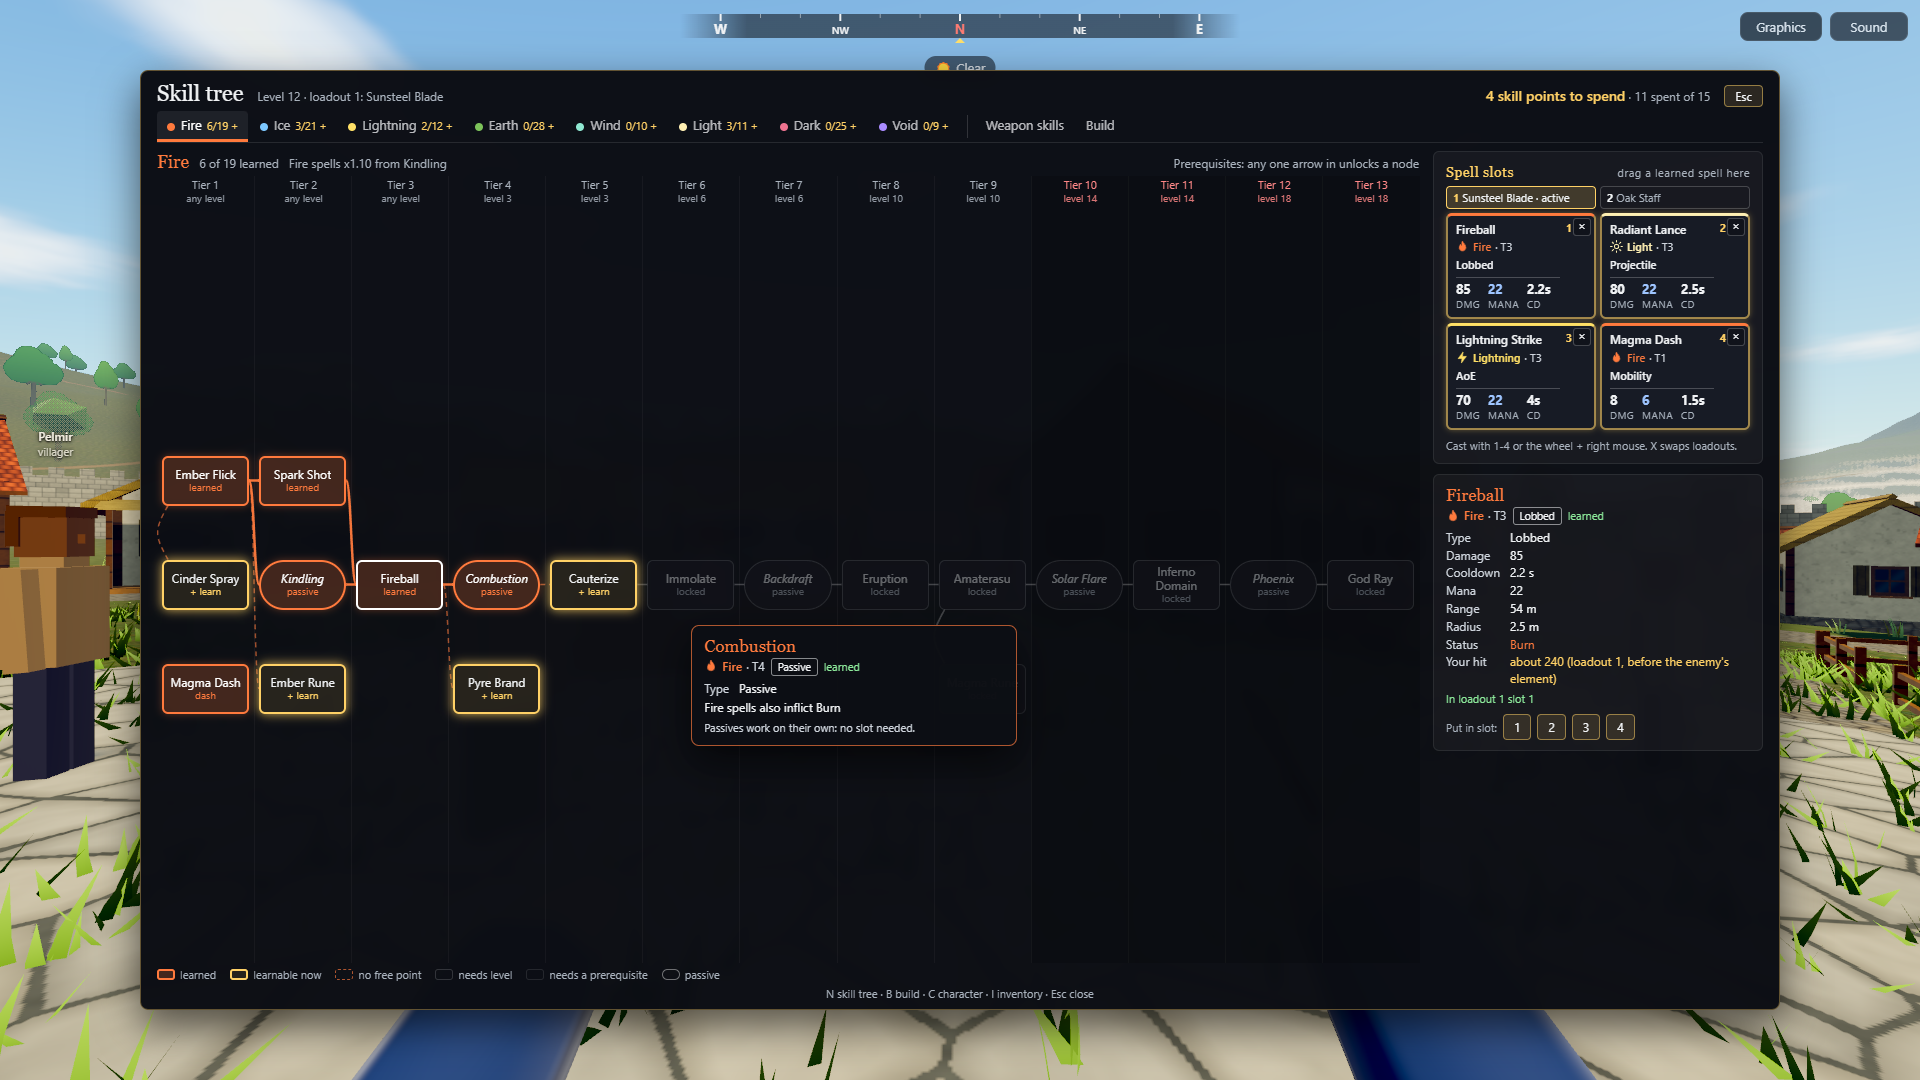
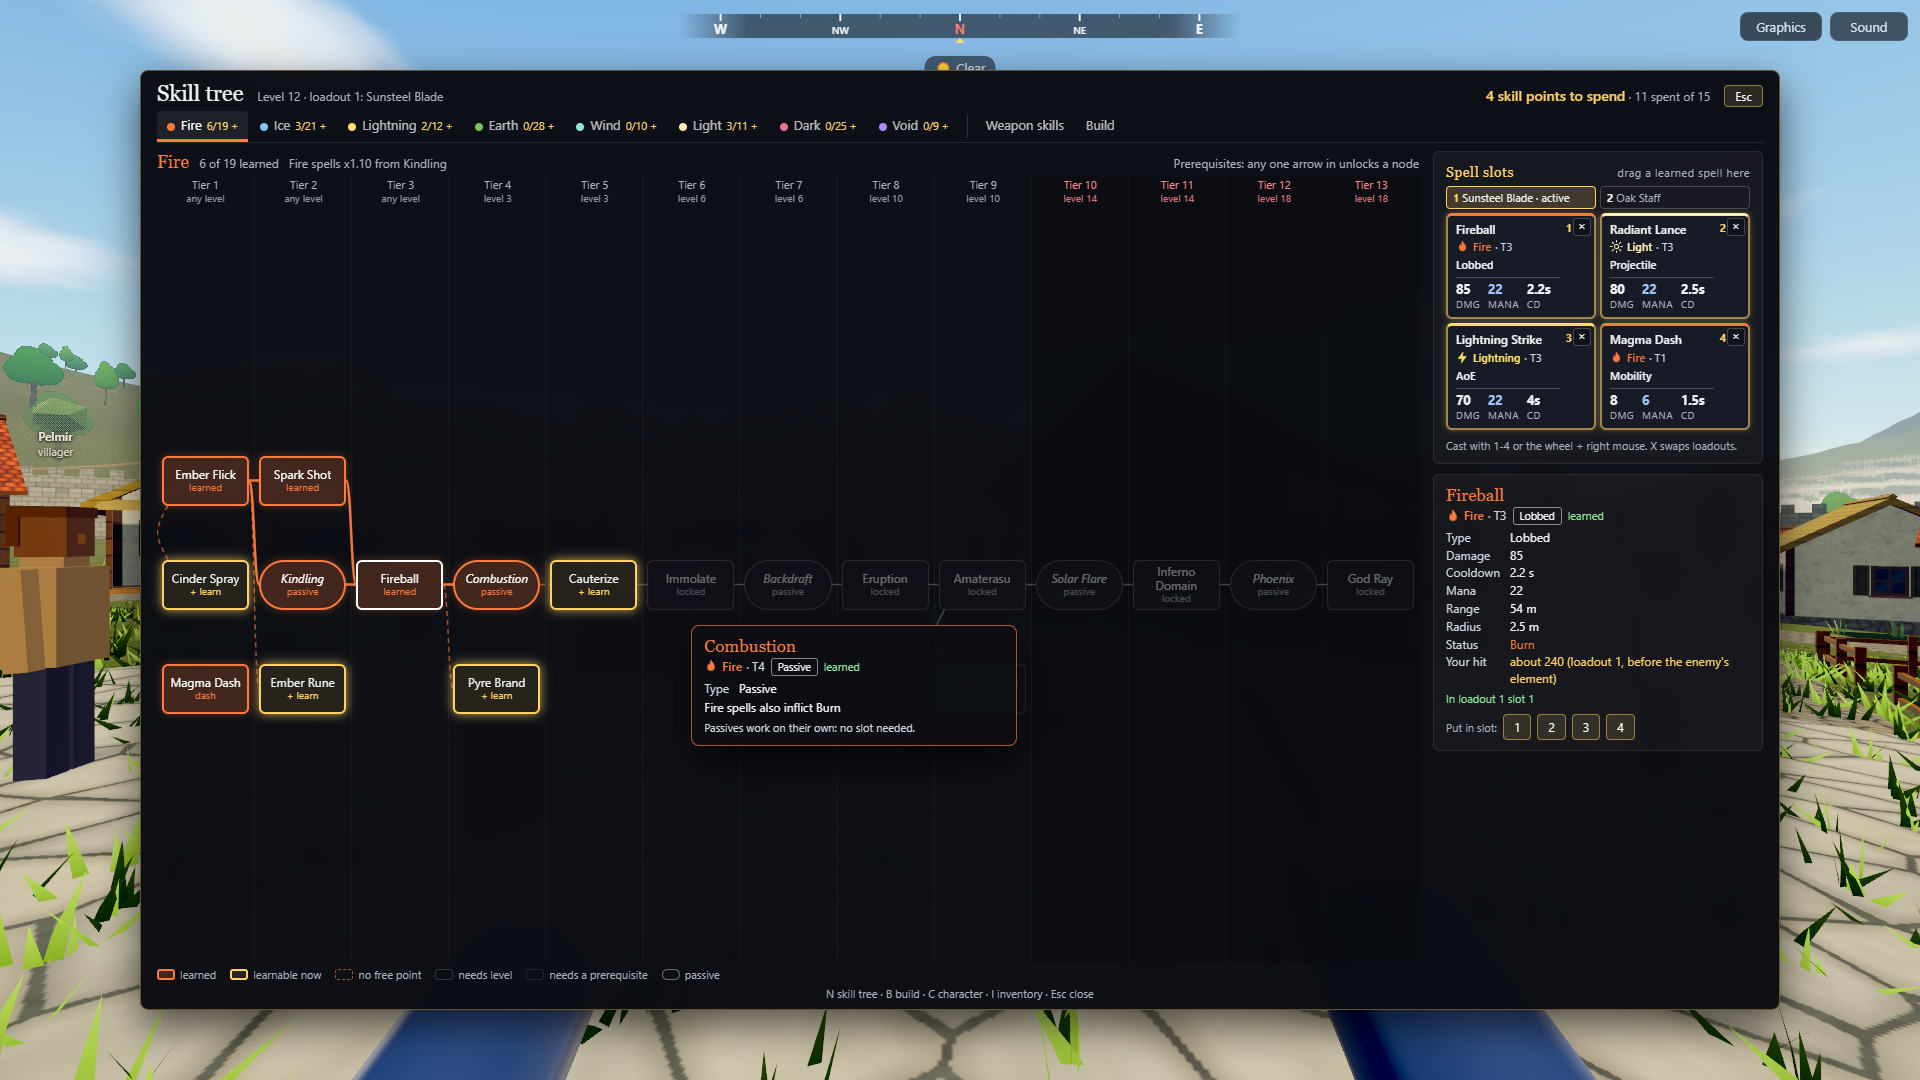
Spell cards: STATUS 'Playtest 2: spell cards', What's new entry, evidence regenerated after merging main (opaque drag ghost)

diff --git a/docs/STATUS.md b/docs/STATUS.md
@@ -1414,3 +1414,19 @@ Evidence (`node client/src/systems/weather/dev/weather-shots.mjs`: solo Vite, on
 Known gaps: weather does not stop at a cave ceiling in the step (as WP10's rain didn't); shelter from bolts and cold is a cave or a settlement, not any roof; snow settles on terrain only; puddles don't reflect; fog banks follow the camera's altitude, not the valleys; region elements and the WorldSpec's `stormFrequency` don't flavour the tables yet; zone strikes arrive after half a round trip; wind on arrows is client-side (inside the zone's 30° aim slack). No listening pass yet on the storm and sand layers (synthesized; levels in `audio/ambience.ts`).
 
 Shared files touched (small): `server/pkg/movement/movement.go` (Env.Weather, snow speed, glider push, glide bound), `client/src/sim/movement.ts` (the twin), `server/zone/internal/chem/sim.go` + `client/src/systems/chem/sim.ts` (rain per cell), `server/zone/internal/combat/{ai,player,world}.go` (Chilled regen, AggroMult hook), `server/zone/internal/game/{server,traversal,night,fishing,items}.go` (the tick, env, wet, Event 500 byte, bobber rain, warm food), `server/zone/main.go` (one line), `client/src/world/{WorldScene.tsx,sky/skyDome.ts,post/postfx.ts,terrain/terrainMaterial.ts}`, `client/src/audio/{ambience,engine,acoustics}.ts`, `client/src/combat/runtime.ts` (arrow drift), `client/src/systems/{night.ts,NightHud.tsx}`, `client/src/sim/stepEnv.ts`, `client/src/scene/PlayerController.tsx`, `client/src/screens/PlayScreen.tsx`, `client/src/devHandle.ts`, `contracts/events.md`, `client/src/ui/whatsnew/changelog.json`.
+
+## Playtest 2: spell cards ✅ (branch `pt2/spell-cards`)
+
+Nicole, on the character panel (C): "make this screen have higher contrast ratio in text. in the dropdown in the spell equipper menu and have the options do a better job of showing what school of magic theyre from and the spell type and mana and damage. maybe we do spell cards instead of a dropdown and each of them shows deep info on hover but class and type on the spell card not on hover." All client-side (`client/src/ui/spellcards`, README there): **no contract change** (assignment is the existing `equipSpell` Interact 50/3).
+
+- **Cards instead of dropdowns**: the panel's Spells section shows the four slots of a loadout as cards (toggle between loadout 1 and 2, the active one marked; follows X) and below them a grid of known castable spells (school order, then tier; passives listed in a line, "always on"). Each card face: name, school in its colour with a glyph (flame, snowflake, bolt, mountain, gusts, sun, crescent, ring; SVG, no emoji fonts), the type (the CR 020 mechanic when there is one: Stream, Homing, Charge, Brand, Delayed burst, Orbit, Summon, Volley, Rain; else Projectile, Lobbed, Ray, Beam, AoE, Domain, Targeted, Rune, Mobility, Defensive) with the delivery beside it ("Stream · projectile"), tier, damage (×hits / ×volley, "Kills", or heals / shield / ally hits for damage-free spells), mana (per shot for streams) and cooldown. A green badge says which slot of the shown loadout holds a card.
+- **Deep info on hover or keyboard focus**: a tooltip beside the panel (never over the cards) with every number the skill tree computes (`spellFacts`: damage, cooldown, mana, wind-up, range/radius/cone, chains, statuses, CR 020 mechanics, kills demons), passive lines, "your hit" with the active build, and which slots hold it. The same component (`SpellDetail`) renders the skill tree's tooltip and its picked-node card.
+- **Assigning**: click a card then a slot; drag a card onto a slot (pointer drag with a ghost card; slot onto slot moves the spell); keyboard (Enter picks, Enter on a slot places, Delete clears); x clears a slot. Offline the cards show but assignment is off, with a note.
+- **Contrast**: every text colour on the panel is a solid token from `spellcards/theme.ts` (no opacity-dimmed text any more): secondary `#cfd5dd`, tertiary `#a9b2bd`, gold, green, warn, red, mana blue; the panel background is 0.97 opaque. Stats rows, section text, the XP line, buttons (styled; the native Learn and Turn on buttons were grey), the learn rows (now with the school glyph, type, damage and mana), Where you stand, Coming next and the PvP section. The Dark school colour went from `#e0607e` to `#ee7390` (it was 4.3:1 on a highlighted card). The skill screen's dim text uses the same tertiary token.
+- **Skill tree (N)**: its sidebar slots are the same slot cards (2 x 2, one loadout at a time with a toggle: both at once pushed the picked card off a 720p screen) and its hover tooltip is the same `SpellTooltip`. `useChar` moved to `skills/char.ts` so both screens share it. Panel width 430 → `min(580px, 100vw - 48px)`.
+- **Tests**: `spellcards.test.ts` (card data for all 135 spells in combat.yaml: school, colour, glyph, type label, tier, mana, headline number, cooldown; the mechanic type of every CR 020 spell; named examples; damage-free spells; grid order; slots) and `theme.test.ts` (WCAG maths against reference values; every text token and school colour on every panel surface at least 4.5:1, the translucent panel over a black and a white world). Full suites after merging main: client typecheck, `eslint .`, `npx vitest run` (81 files, 1019 tests).
+- **Evidence** (`node client/src/ui/spellcards/dev/shots.mjs`, solo, 38 checks PASS, no page errors: no dropdowns left, panel fits with no horizontal scroll, slot and grid faces, tooltip numbers and placement, pick + click, drag onto a slot, slot to slot, x, loadout 2, keyboard focus/pick/place, C closes, the skill tree's slot cards and toggle): `docs/evidence/pt2-spell-cards-{panel,hover,drag}-{1920x1080,1280x720}.png`, `pt2-spell-cards-skill-tree-{1920x1080,1280x720}.png`, `pt2-spell-cards-shots.txt`. `client/src/ui/skills/dev/shots.mjs` re-run (all PASS; its pt2-skill-tree-* shots refreshed).
+
+Gaps: not run against a live zone (the dev handle's offline stand-in answers equip the way combat_sync does); dragging onto the hidden loadout's slot needs the toggle first; the skill tree's graph nodes stay compact boxes (cards would not fit seven lanes).
+
+Shared files touched: `client/src/ui/progression/ProgressionHud.tsx` (the panel), `client/src/ui/pvp/PvpHud.tsx` (its panel section's colours), `client/src/ui/skills/{SkillScreen.tsx,tree.ts,dev/shots.mjs}`, `client/src/ui/whatsnew/changelog.json`.
